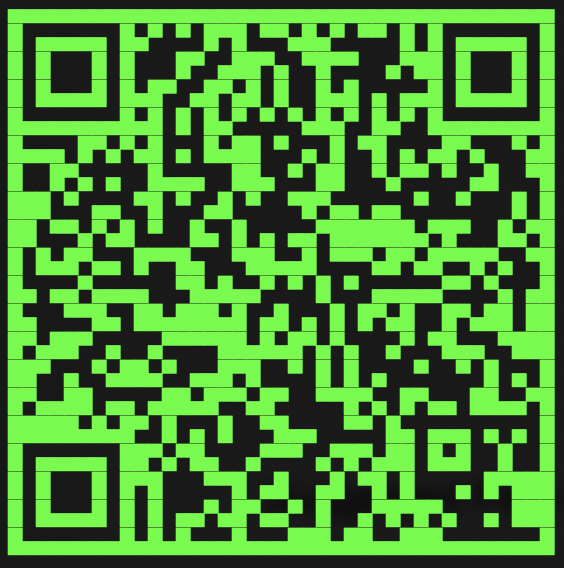
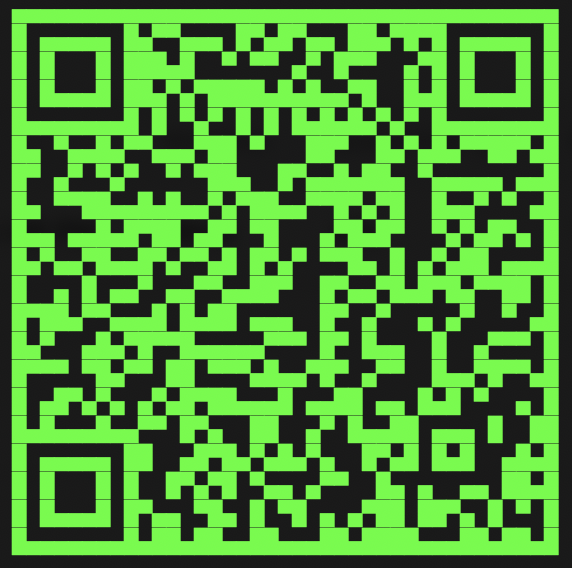
Update Android preview build link and QR code
Made-with: Cursor

diff --git a/README.md b/README.md
@@ -8,7 +8,7 @@ A minimal React Native app built with Expo. Features a Hello Metal button with h
 
 A pre-built Android APK is available to install directly:
 
-**[Download Android Preview Build](https://expo.dev/accounts/carboes/projects/hello-metal/builds/739d795c-6a60-48c8-afd7-a7c53d3f8a95)**
+**[Download Android Preview Build](https://expo.dev/accounts/carboes/projects/hello-metal/builds/60c2fa46-0667-465d-ac95-b042c2c781e9)**
 
 Or scan the QR code to open the build page on your device:
 
